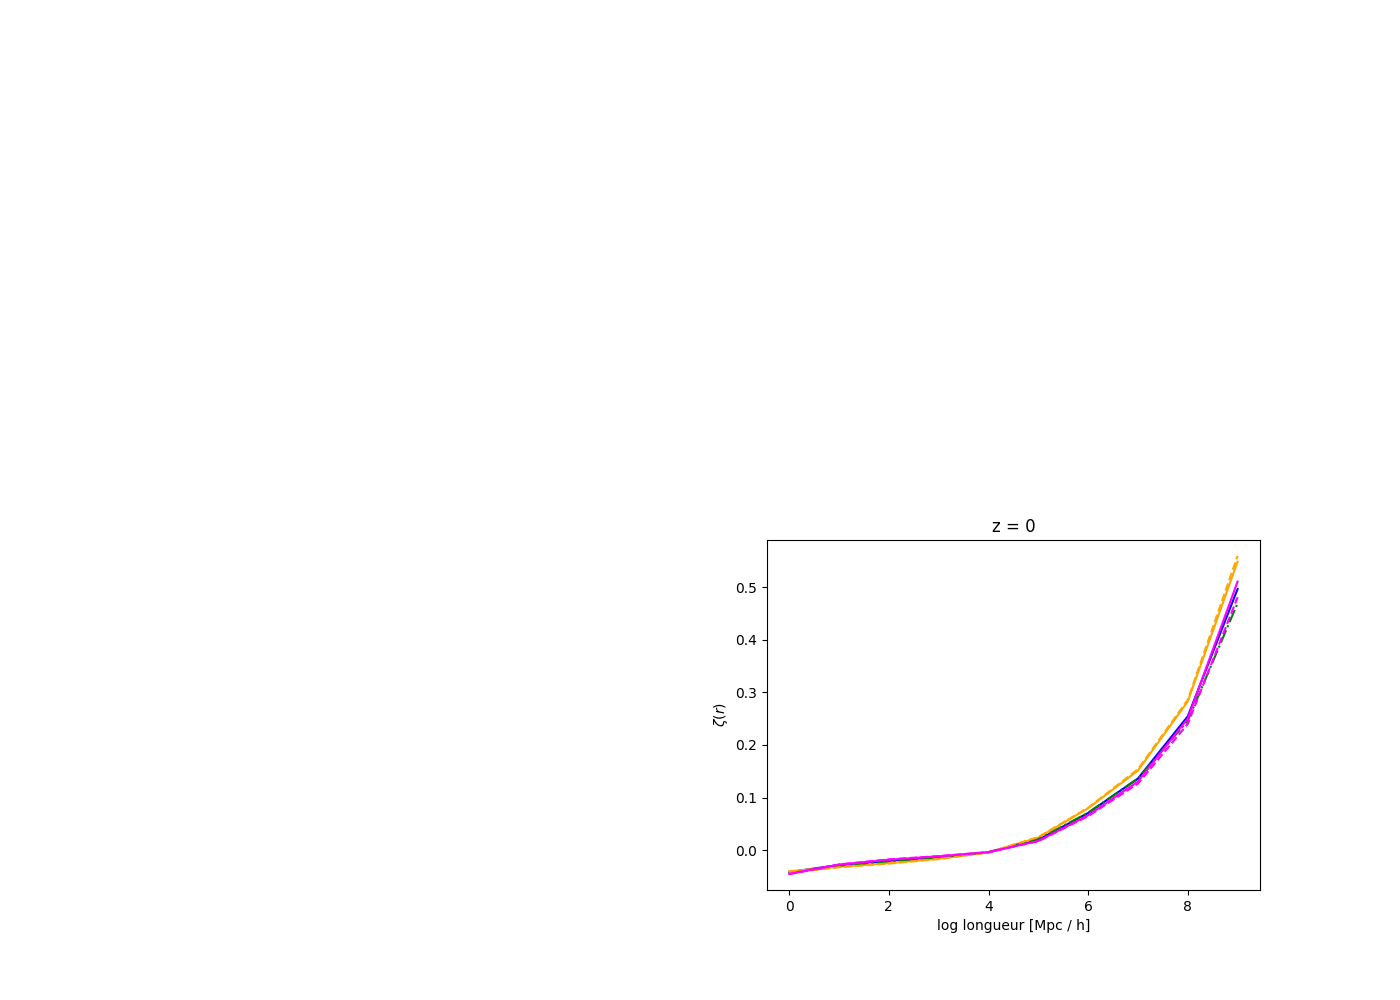
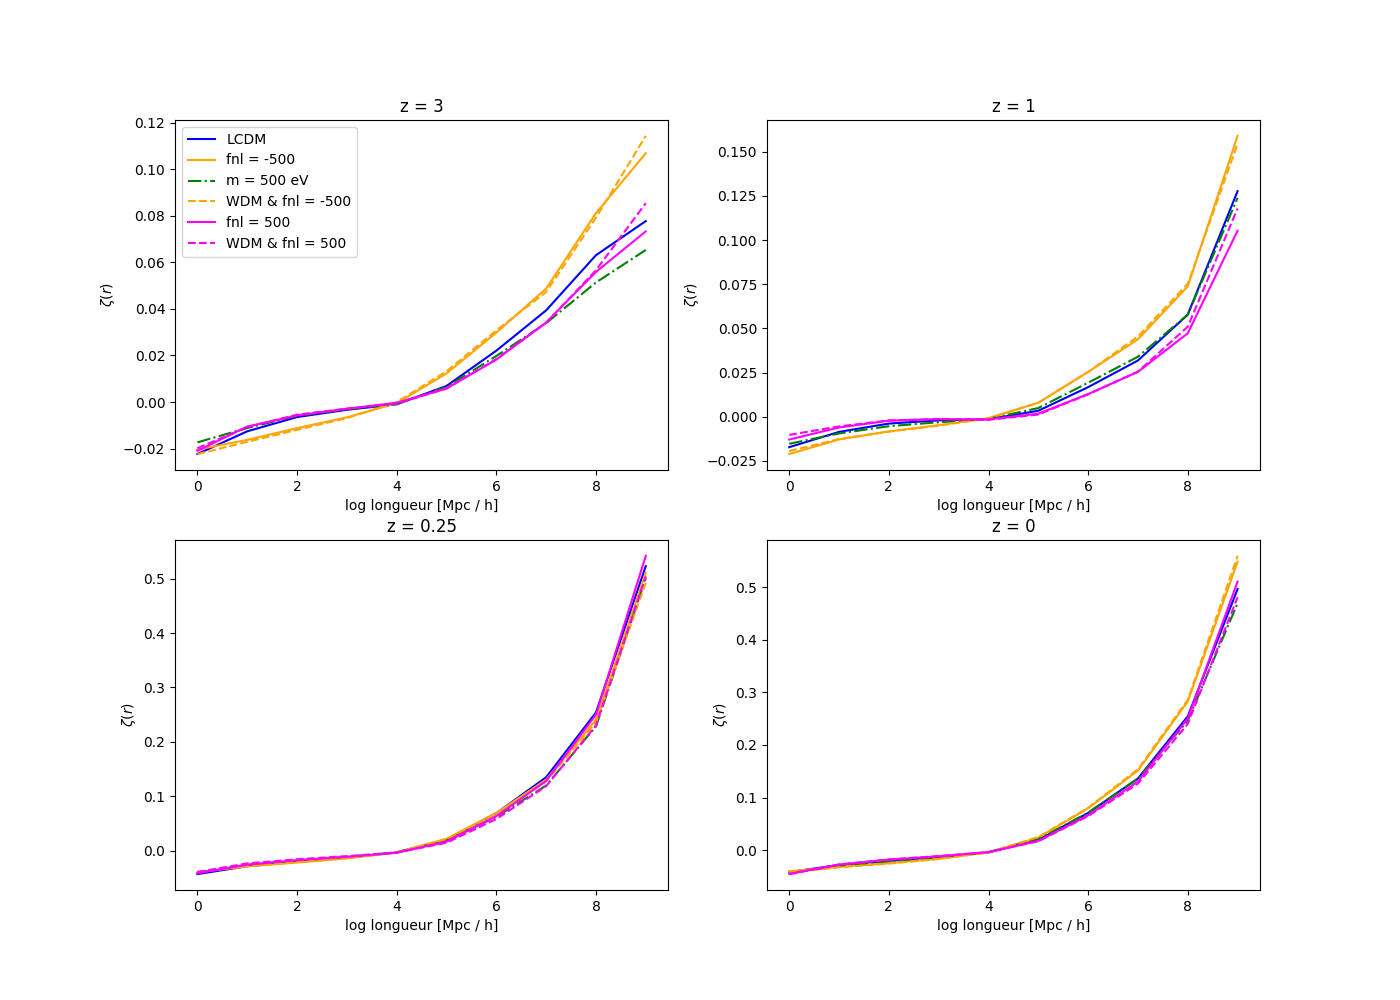
100

diff --git a/plot_correlations.py b/plot_correlations.py
@@ -27,7 +27,7 @@ if __name__ == "__main__" :
 
     plt.figure(figsize=(14,10))
 
-    nbins = 10
+    nbins = 100
     R = 5
     data_random = np.load(f"/data100/fcastillo/RESULT/extrema/extrema_random_{R}.txt.npy")
 
@@ -38,8 +38,8 @@ if __name__ == "__main__" :
             a = 0
             b = 0
 
-            for i in range(1,5):
-                plt.subplot(2,2,i)
+            for i in [0,1,2,4]:
+                plt.subplot(2,2,min(i+1,4))
 
                 axes = plt.gca()
 
@@ -68,14 +68,14 @@ if __name__ == "__main__" :
                         Rab = np.load(f"/data100/fcastillo/RESULT/extrema/snapshot_{j}_{i}_R_{a}_{b}_s{R}.txt.npy")
                         Rba = np.load(f"/data100/fcastillo/RESULT/extrema/snapshot_{j}_{i}_R_{b}_{a}_s{R}.txt.npy")
 
-                        Cabm = np.histogram(Cab, bins =nbins)[0]
-                        Rabm = np.histogram(Rab, bins =nbins)[0]
-                        Rbam = np.histogram(Rba, bins =nbins)[0]
+                        Cabm = np.histogram(Cab, bins =nbins,range=[0,100])[0]
+                        Rabm = np.histogram(Rab, bins =nbins,range=[0,100])[0]
+                        Rbam = np.histogram(Rba, bins =nbins,range=[0,100])[0]
                         zeta = Cabm / np.sqrt(Rabm * Rbam) *sqrt(Nra * Nrb / (Nca* Ncb)) - 1
 
                             
                         axes.plot(zeta, color= couleur, ls = ls, label=label)
-                        axes.set_xlabel("log longueur [Mpc / h]")
+                        axes.set_xlabel("r [Mpc / h]")
                         #plt.xscale("log")
                         axes.set_ylabel(r"$\zeta (r)$")
                         #axes.set_ylim(0,0.35)

diff --git a/GRAPHES/plot_correlations.py b/GRAPHES/plot_correlations.py
@@ -84,7 +84,7 @@ if __name__ == "__main__" :
                         if j == 5 and i == 1: plt.legend() 
 
 
-                plt.savefig(f"corr_{a}_{b}_s{R}_nbins{nbins}.pdf")
-                plt.savefig(f"corr_{a}_{b}_s{R}_nbins{nbins}.png")
-                plt.clf()
+            plt.savefig(f"corr_{a}_{b}_s{R}_nbins{nbins}.pdf")
+            plt.savefig(f"corr_{a}_{b}_s{R}_nbins{nbins}.png")
+            plt.clf()
 
